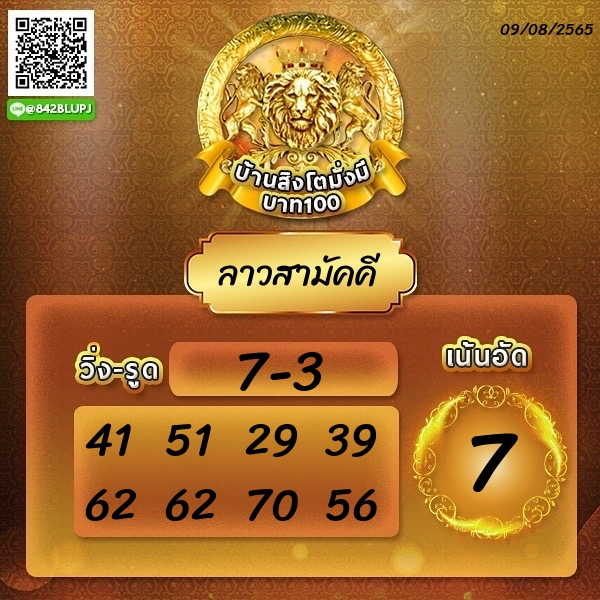
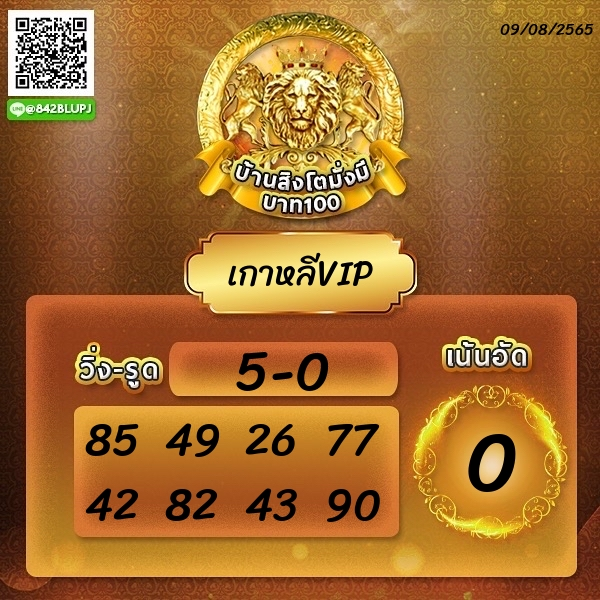
Add files via upload

diff --git a/random.php b/random.php
@@ -17,7 +17,6 @@ $x7 = rand(0,9);
 $n7 = rand(0,9);
 $x8 = rand(0,9);
 $n8 = rand(0,9);
-$num = rand(0,9);
 $j1 = "$x1$n1";
 $j2 = "$x2$n2";
 $j3 = "$x3$n3";
@@ -28,6 +27,8 @@ $j7 = "$x7$n7";
 $j8 = "$x8$n8";
 $rood = "$num1-$num2";
 $name = $_GET["name"];
+$nen = rand(0,9);
+$num = 0;
 
         header('Content-Type: image/jpeg');
         date_default_timezone_set("Asia/Bangkok");
@@ -40,6 +41,14 @@ $name = $_GET["name"];
         $text_width = abs($box[2]) - abs($box[0]);
         $image_width = imagesx($image);
         $x = ($image_width - $text_width) / 2;
+        if ($nen <= 4)
+        {
+                $num = $num1;
+        }
+        if ($nen >=5)
+        {
+                $num = $num2;
+        }
 
         $datetime = date("d/m/2565");
         imagettftext($image,$size,0,$x,285,$color,$font,$name);
